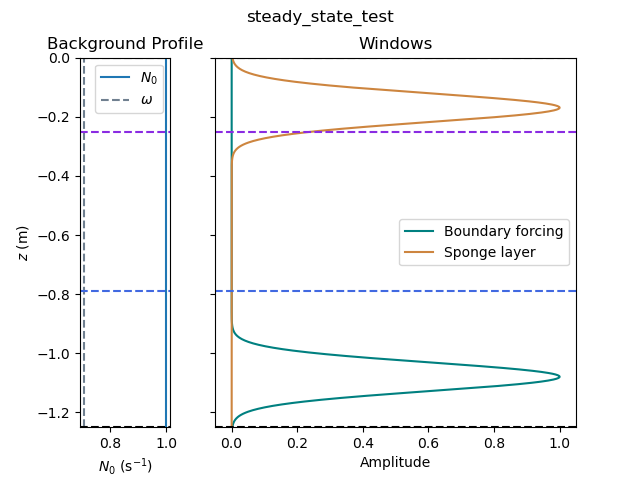
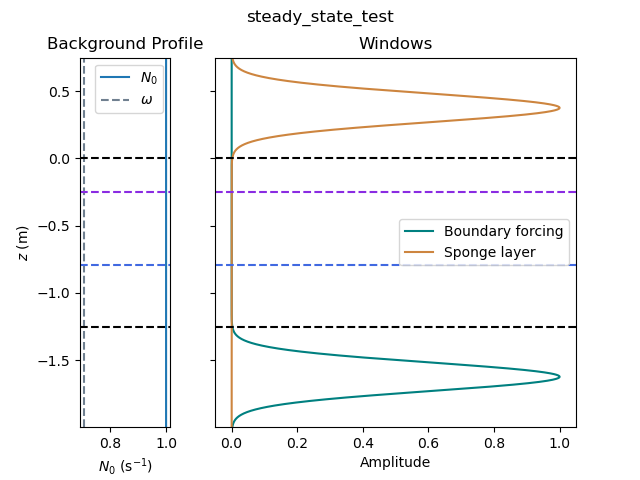
I can now either run CD with or without trimming the data

diff --git a/steady_state_test.py b/steady_state_test.py
@@ -42,18 +42,23 @@ T           = sbp.T             # [s]           Wave period
 
 # Parameters
 nz          = sbp.nz
+nz_sim      = sbp.nz_sim
 z0_dis      = sbp.z0_dis
 zf_dis      = sbp.zf_dis
 lz_lambda = abs(z0_dis-zf_dis)/lam_z
-print("Lz/lambda=",lz_lambda)
+print("Lz_dis/lambda=",lz_lambda)
+z0          = sbp.z0
+zf          = sbp.zf
 
+# Steps in time and space
 dt          = sbp.dt
-dz          = abs(z0_dis - zf_dis)/nz
+dz          = sbp.dz#abs(z0_dis - zf_dis)/nz
 
+# Mesuring depths for incident and transient waves
 z_I         = sbp.z_I
 z_T         = sbp.z_T
 
-plt_fd      = sbp.plot_full_domain
+plt_fd      = True#sbp.plot_full_domain
 T_cutoff    = sbp.T_cutoff
 
 ###############################################################################
@@ -64,13 +69,20 @@ A           = 1.0
 B           = 1.0
 
 # Find space and time axes (z, t)
-z = np.linspace(zf_dis, z0_dis, nz) # careful about the order of endpoints
-#stop_sim_time, nt  = hf.extended_stop_time(sbp.sim_time_stop, dt)
+#z = np.arange(zf, z0, dz) # careful about the order of endpoints
+z = sbp.z
+# z and psi arrays come out sorted from most positive to most negative on z axis
+#   This flips things around (ud = up / down)
+z = np.flip(z)
+# psi = np.flipud(psi)
+
+print('len(z)=',len(z))
 stop_sim_time = sbp.sim_time_stop
 nt = stop_sim_time / dt
 t = np.linspace(0.0, stop_sim_time, int(nt))
 # Find wavenumbers
-kz = np.fft.fftfreq(len(z), dz)
+kz_dis = np.fft.fftfreq(nz, dz)
+kz_sim = np.fft.fftfreq(nz_sim, dz)
 # Make a space time meshgrid
 tm, zm = np.meshgrid(t, z)
 
@@ -180,14 +192,6 @@ def FT_in_space(t, k_zs, data):
     return ifzdp, ifzdn
 
 ###############################################################################
-# z and psi arrays come out sorted from most positive to most negative on z axis
-#   This flips things around (ud = up / down)
-# z = np.flip(z)
-# psi = np.flipud(psi)
-
-BP_array = hf.BP_n_layers(0, sbp.z, sbp.z0_str, sbp.zf_str)
-
-###############################################################################
 # Complex demodulation
 
 def Complex_Demodulate(t_then_z, t, z, kz, data, dt, omega):
@@ -205,16 +209,19 @@ def Complex_Demodulate(t_then_z, t, z, kz, data, dt, omega):
     return up_field, dn_field
 
 # Trimming the data
-tr_z, tr_t, tr_psi = hf.trim_data(z, t, psi, z0_dis=None, zf_dis=None, T_cutoff=T_cutoff, T=T)
+tr_z, tr_t, tr_psi = hf.trim_data(z, t, psi, z0_dis=z0_dis, zf_dis=zf_dis, T_cutoff=T_cutoff, T=T)
+print('tr_z.shape=',tr_z.shape)
+print('tr_t.shape=',tr_t.shape)
+print('tr_psi.shape=',tr_psi.shape)
 
 t_then_z = True
-#up_field, dn_field = Complex_Demodulate(t_then_z, t, z, kz, psi, dt, omega)
-tr_up_field, tr_dn_field = Complex_Demodulate(t_then_z, tr_t, tr_z, kz, tr_psi, dt, omega)
+up_field, dn_field = Complex_Demodulate(t_then_z, t, z, kz_sim, psi, dt, omega)
+tr_up_field, tr_dn_field = Complex_Demodulate(t_then_z, tr_t, tr_z, kz_dis, tr_psi, dt, omega)
 
 ###############################################################################
 # Measuring the transmission coefficient
 
-I_, T_, AAcc_I, AAcc_T = hf.measure_T(tr_dn_field, z, z_I, z_T, T_skip=None, T=T, t=t)
+I_, T_, AAcc_I, AAcc_T = hf.measure_T(tr_dn_field, tr_z, z_I, z_T, T_skip=None, T=T, t=tr_t)
 big_T = T_/I_
 print("Transmission coefficient is:", big_T)
 
@@ -231,7 +238,7 @@ if profile_it == True:
 
 ###############################################################################
 # What to plot
-show_trimmed = True
+show_trimmed = False
 if show_trimmed:
     plot_up = tr_up_field
     plot_dn = tr_dn_field
@@ -246,23 +253,30 @@ else:
     plot_t = t
 
 ###############################################################################
+# Creating stratification background profile
+BP_array = hf.BP_n_layers(0, z, sbp.z0_str, sbp.zf_str)
+plot_BP_ = hf.BP_n_layers(0, plot_z, sbp.z0_str, sbp.zf_str)
+print('len(BP_array)=',len(BP_array))
+print('len(plot_BP_)=',len(plot_BP_))
+
+###############################################################################
 # Plotting and stuff
 
 if sbp.plot_windows:
-    hf.plot_v_profiles(plot_z, BP_array, sbp.win_bf_array, sbp.win_sp_array, mL=mL, theta=theta, omega=omega, z_I=z_I, z_T=z_T, z0_dis=z0_dis, zf_dis=zf_dis, title_str=run_name, filename='ss_1D_windows.png')
+    hf.plot_v_profiles(z, BP_array, sbp.win_bf_array, sbp.win_sp_array, mL=mL, theta=theta, omega=omega, z_I=z_I, z_T=z_T, z0_dis=z0_dis, zf_dis=zf_dis, title_str=run_name, filename='ss_1D_windows.png')
 
 if sbp.plot_spacetime:
-    hf.plot_z_vs_t(plot_z, plot_t, T, plot_psi.real, BP_array, mL, theta, omega, z_I=z_I, z_T=z_T, z0_dis=z0_dis, zf_dis=zf_dis, plot_full_domain=plt_fd, T_cutoff=T_cutoff, title_str=run_name, filename='ss_1D_wave.png')
+    hf.plot_z_vs_t(plot_z, plot_t, T, plot_psi.real, plot_BP_, mL, theta, omega, z_I=z_I, z_T=z_T, z0_dis=z0_dis, zf_dis=zf_dis, plot_full_domain=plt_fd, T_cutoff=T_cutoff, title_str=run_name, filename='ss_1D_wave.png')
 
 if sbp.plot_amplitude:
     hf.plot_A_of_I_T(plot_z, plot_t, T, plot_dn, mL, theta, omega, z_I, z_T, plot_full_domain=plt_fd, T_cutoff=T_cutoff, title_str=run_name, filename='ss_1D_A_of_I_T.png')
 
 if sbp.plot_amplitude:
-    hf.plot_AA_for_z(plot_z, BP_array, hf.AAcc(plot_dn), mL, theta, omega, z_I=z_I, z_T=z_T, z0_dis=z0_dis, zf_dis=zf_dis, plot_full_domain=plt_fd, title_str=run_name, filename='ss_1D_AA_for_z.png')
+    hf.plot_AA_for_z(plot_z, plot_BP_, hf.AAcc(plot_dn), mL, theta, omega, z_I=z_I, z_T=z_T, z0_dis=z0_dis, zf_dis=zf_dis, plot_full_domain=plt_fd, title_str=run_name, filename='ss_1D_AA_for_z.png')
 
 if sbp.plot_up_dn:
-    hf.plot_z_vs_t(plot_z, plot_t, T, plot_up.real, BP_array, mL, theta, omega, z0_dis=z0_dis, zf_dis=zf_dis,  plot_full_domain=plt_fd, T_cutoff=None, title_str=run_name+' up', filename='ss_1D_up_field.png')
-    hf.plot_z_vs_t(plot_z, plot_t, T, plot_dn.real, BP_array, mL, theta, omega, z0_dis=z0_dis, zf_dis=zf_dis, plot_full_domain=plt_fd, T_cutoff=None, title_str=run_name+' dn', filename='ss_1D_dn_field.png')
+    hf.plot_z_vs_t(plot_z, plot_t, T, plot_up.real, plot_BP_, mL, theta, omega, z0_dis=z0_dis, zf_dis=zf_dis,  plot_full_domain=plt_fd, T_cutoff=None, title_str=run_name+' up', filename='ss_1D_up_field.png')
+    hf.plot_z_vs_t(plot_z, plot_t, T, plot_dn.real, plot_BP_, mL, theta, omega, z0_dis=z0_dis, zf_dis=zf_dis, plot_full_domain=plt_fd, T_cutoff=None, title_str=run_name+' dn', filename='ss_1D_dn_field.png')
 
 if sbp.plot_freqspace:
     foobar, psi_FT_t, freqs = FT_in_time(t, z, psi, dt, omega)
@@ -275,7 +289,7 @@ plot_CD_checks = False
 if plot_CD_checks:
     # Add up and down fields to see if they reproduce the original psi field
     up_plus_dn = plot_up.real + plot_dn.real
-    hf.plot_z_vs_t(z, t, T, up_plus_dn, BP_array, mL, theta, omega, z0_dis=z0_dis, zf_dis=zf_dis, plot_full_domain=plt_fd, nT=None, title_str=run_name, filename='ss_1D_up_plus_dn.png')
+    hf.plot_z_vs_t(z, t, T, up_plus_dn, plot_BP_, mL, theta, omega, z0_dis=z0_dis, zf_dis=zf_dis, plot_full_domain=plt_fd, nT=None, title_str=run_name, filename='ss_1D_up_plus_dn.png')
     # Plot the difference, which ideally should be zero everywhere
     CD_diff = psi.real - up_plus_dn
-    hf.plot_z_vs_t(z, t, T, CD_diff, BP_array, mL, theta, omega, z0_dis=z0_dis, zf_dis=zf_dis, plot_full_domain=plt_fd, nT=None, title_str=run_name, filename='ss_1D_CD_diff.png')
+    hf.plot_z_vs_t(z, t, T, CD_diff, plot_BP_, mL, theta, omega, z0_dis=z0_dis, zf_dis=zf_dis, plot_full_domain=plt_fd, nT=None, title_str=run_name, filename='ss_1D_CD_diff.png')

diff --git a/switchboard.py b/switchboard.py
@@ -14,7 +14,7 @@ from dedalus import public as de
 # Main parameters, the ones I'll change a lot. Many more below
 
 # Relevant parameters
-nz              = 1024          # [] number of grid points in the z direction
+nz      = 1024                  # [] number of grid points in the z direction in display domain
 mL      = 1                     # [] vertical wave number times step length
 theta   = None                  # [] angle between wave's propagation and horizontal (or vertical?)
 
@@ -78,8 +78,6 @@ T       = 2*np.pi / omega       # [s]           Wave period
 
 # Determine whether adaptive time stepping is on or off
 adapt_dt                = False
-if extend_to_pwr_2 == True:
-    adapt_dt = False
 
 # Terms in equations of motion
 viscous_term            = True
@@ -148,11 +146,13 @@ tau_sp  = 1.0e-0                # [s] time constant for sponge layer
 z0     = z0_dis + a_bf          # [m] top of simulated domain
 zf     = zf_dis - a_sp          # [m] bottom of simulated domain
 Lz     = abs(zf - z0)           # [m] length of simulated domain
-dz     = Lz / nz                # [m] spacing between each grid point
+Lz_dis = abs(zf_dis - z0_dis)   # [m] length of display domain
+dz     = Lz_dis / nz            # [m] spacing between each grid point
+nz_sim = int(Lz/dz)             # [] number of points in the simulated domain
 dealias= 3/2                    # [] dealiasing factor
 
 # Bases and domain
-z_basis = de.Fourier('z', nz, interval=(z0, zf), dealias=dealias)
+z_basis = de.Fourier('z', nz_sim, interval=(z0, zf), dealias=dealias)
 domain = de.Domain([z_basis], grid_dtype=np.complex128)#float64)
 # Z grid
 z_da = domain.grid(0, scales=domain.dealias)

diff --git a/helper_functions.py b/helper_functions.py
@@ -428,9 +428,12 @@ def plot_BP(ax, BP, z, omega=None):
         ax.axvline(x=omega, color=my_clrs['omega'], linestyle='--', label=r'$\omega$')
         ax.legend()
 
-def plot_v_profiles(z_array, BP_array, bf_array, sp_array, mL=None, theta=None, omega=None, z_I=None, z_T=None, z0_dis=None, zf_dis=None, title_str='Forced 1D Wave', filename='f_1D_windows.png'):
+###############################################################################
+
+def plot_v_profiles(z_array, BP_array, bf_array, sp_array, mL=None, theta=None, omega=None, z_I=None, z_T=None, z0_dis=None, zf_dis=None, plot_full_domain=True, title_str='Forced 1D Wave', filename='f_1D_windows.png'):
     """
     Plots the vertical profiles: stratification, boundary forcing, sponge layer
+        Note: all arrays must be imput as full-domain, no trimmed versions
 
     z_array     array of z values
     BP_array    array of the background profile values in z
@@ -455,6 +458,9 @@ def plot_v_profiles(z_array, BP_array, bf_array, sp_array, mL=None, theta=None, 
     # Add horizontal lines
     add_lines_to_ax(axes[0], z_I=z_I, z_T=z_T, z0_dis=z0_dis, zf_dis=zf_dis)
     add_lines_to_ax(axes[1], z_I=z_I, z_T=z_T, z0_dis=z0_dis, zf_dis=zf_dis)
+    # Set plot bounds to include full domain or not
+    set_plot_bounds(axes[0], plot_full_domain, z_array=z_array, z0_dis=z0_dis, zf_dis=zf_dis)
+    set_plot_bounds(axes[1], plot_full_domain, z_array=z_array, z0_dis=z0_dis, zf_dis=zf_dis)
     # Add labels
     axes[1].set_xlabel('Amplitude')
     axes[1].set_title(r'Windows')
